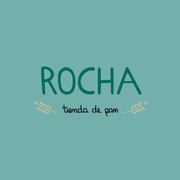
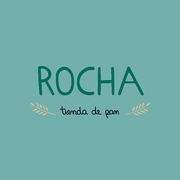
fix(brand): flat teal mark, bust cache, fix remito LCP
Prior rebuild left registration dots visible in browsers via cached
/brand/rocha-logo.png. Extract art onto exact #74b0ab, rename asset,
serve unoptimized, and priority-load on remito.

diff --git a/src/components/brand-logo.tsx b/src/components/brand-logo.tsx
@@ -5,7 +5,10 @@ type BrandLogoProps = {
   /** Visual size of the mark */
   size?: "sm" | "md" | "lg" | "xl" | "2xl";
   className?: string;
+  /** Above-the-fold / LCP: preload + eager decode */
   priority?: boolean;
+  /** Prefer `priority` for LCP; use `eager` when priority preload is unwanted */
+  loading?: "eager" | "lazy";
 };
 
 const SIZE = {
@@ -16,21 +19,25 @@ const SIZE = {
   "2xl": { width: 384, height: 384, className: "h-52 w-52 sm:h-64 sm:w-64" },
 } as const;
 
-/** Official Rocha tienda de pan mark — sage circle + forest green. */
+/** Official Rocha tienda de pan mark — solid teal square + forest green. */
 export function BrandLogo({
   size = "sm",
   className,
   priority = false,
+  loading,
 }: BrandLogoProps) {
   const s = SIZE[size];
   return (
     <span className="inline-block overflow-hidden rounded-2xl">
       <Image
-        src="/brand/rocha-logo.png"
+        src="/brand/rocha-mark.png"
         alt="ROCHA tienda de pan"
         width={s.width}
         height={s.height}
         priority={priority}
+        loading={priority ? undefined : loading}
+        // Flat brand mark — skip optimizer cache/resizes that can reintroduce seams.
+        unoptimized
         className={cn(s.className, "object-contain", className)}
       />
     </span>

diff --git a/src/app/remitos/[id]/page.tsx b/src/app/remitos/[id]/page.tsx
@@ -208,7 +208,7 @@ export default async function RemitoDetailPage({
       <article className="print-remito rounded-lg border border-neutral-200 bg-white p-6 shadow-sm">
         <header className="mb-6 flex flex-wrap items-start justify-between gap-4 border-b border-neutral-200 pb-4">
           <div>
-            <BrandLogo size="md" className="print:h-24 print:w-24" />
+            <BrandLogo size="md" priority className="print:h-24 print:w-24" />
             <h2 className="mt-3 text-xl font-semibold">Remito {quote.number}</h2>
             <p className="text-sm text-neutral-600">
               Fecha: {quote.createdAt.toLocaleDateString("es-AR")}

diff --git a/src/lib/push-notification-brand.ts b/src/lib/push-notification-brand.ts
@@ -1,5 +1,5 @@
-/** Square Rocha mark — same asset as {@link BrandLogo} (`public/brand/rocha-logo.png`). */
-export const PUSH_NOTIFICATION_ICON_PATH = "/brand/rocha-logo.png";
+/** Square Rocha mark — same asset as {@link BrandLogo} (`public/brand/rocha-mark.png`). */
+export const PUSH_NOTIFICATION_ICON_PATH = "/brand/rocha-mark.png";
 
 export function pushNotificationIconUrl(origin?: string | null): string {
   const base = origin?.replace(/\/$/, "") ?? "";

diff --git a/public/sw.js b/public/sw.js
@@ -4,7 +4,7 @@
 const PUSH_CHANNEL = "rocha-admin-push";
 const FALLBACK_TITLE = "Nueva cotización";
 const FALLBACK_URL = "/admin/cotizaciones";
-const ICON_PATH = "/brand/rocha-logo.png";
+const ICON_PATH = "/brand/rocha-mark.png";
 
 function brandIconUrl() {
   return new URL(ICON_PATH, self.location.origin).href;
